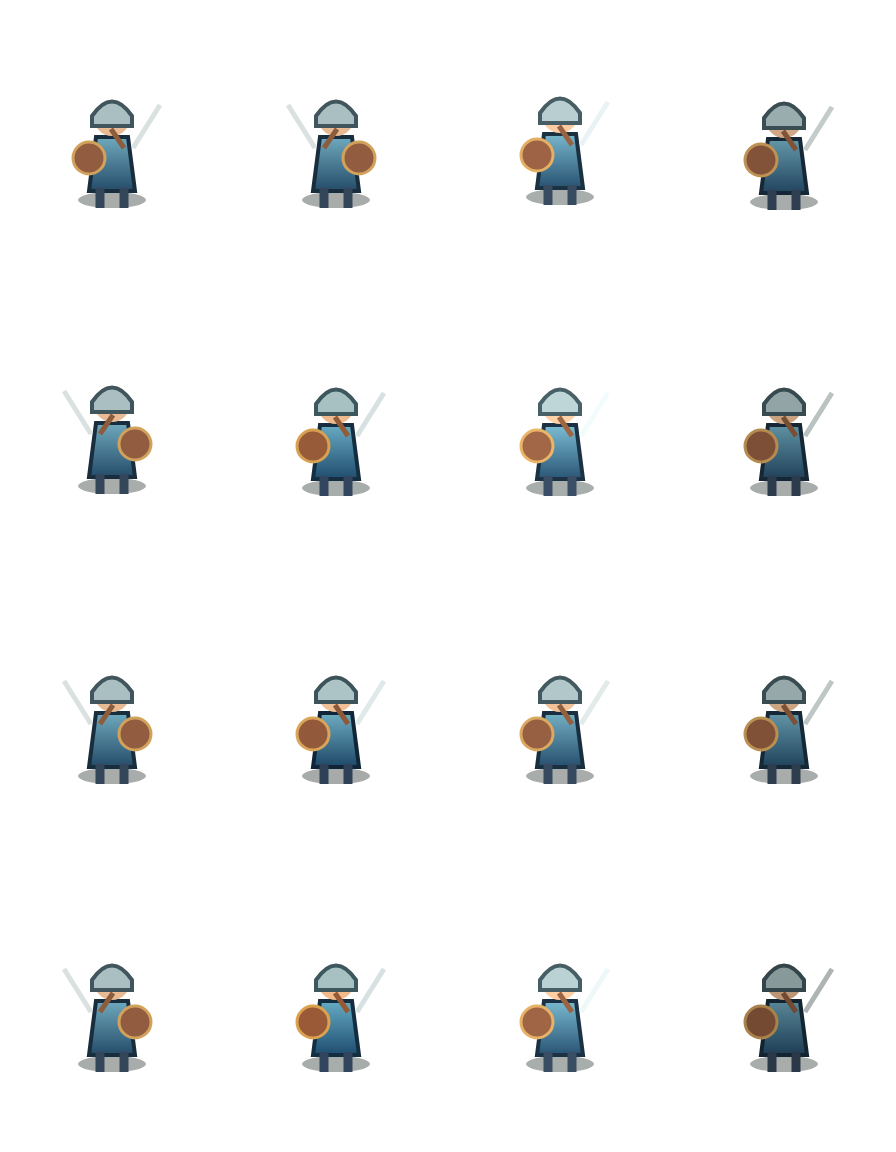
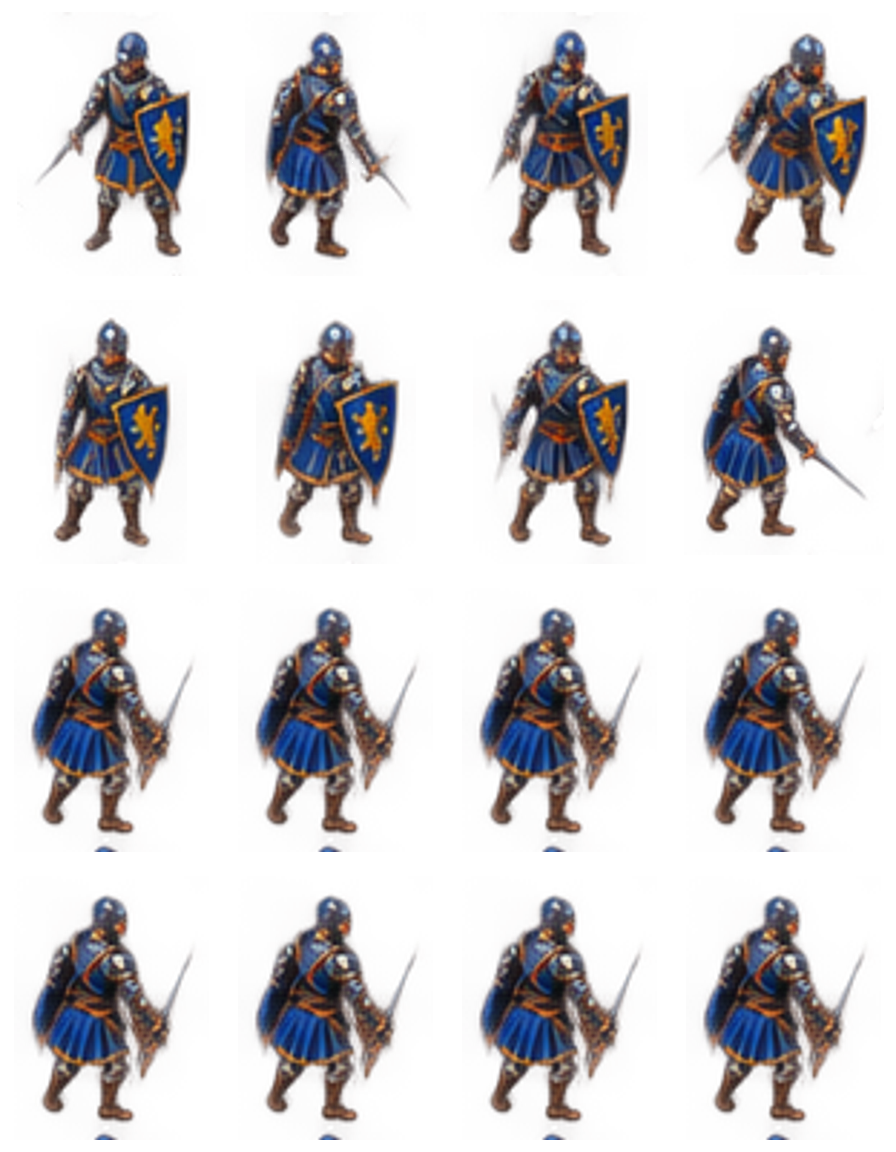
feat: integrate final medieval RTS art pack

diff --git a/src/assets.ts b/src/assets.ts
@@ -16,7 +16,9 @@ export const ART_ASSETS = {
   },
   resources: {
     wood: '/work/assets/rts-hd/resources/trees.png',
+    woodVariant: '/work/assets/rts-hd/resources/trees2.png',
     stone: '/work/assets/rts-hd/resources/stone.png',
+    stoneVariant: '/work/assets/rts-hd/resources/stone2.png',
     gold: '/work/assets/rts-hd/resources/gold.png',
   },
 } as const

diff --git a/ASSET_LICENSES.md b/ASSET_LICENSES.md
@@ -4,7 +4,7 @@ All new battlefield sprite artwork is original inline SVG artwork created for th
 
 ## Original sprite textures
 
-The primary runtime battlefield textures are raster PNG sprite sheets under `public/assets/rts-hd/`. They were generated locally from original project artwork into 4×4 frame atlases, with frame variants for direction/state presentation. The older SVG files under `public/assets/rts/` remain fallback/source artwork only.
+The primary runtime battlefield textures are raster PNG sprite sheets under `public/assets/rts-hd/`. The final unit/environment PNGs were selected from the project-owned game-ready art pack supplied in this session and normalized into 4×4 frame atlases with transparent edges. The older SVG files under `public/assets/rts/` remain fallback/source artwork only.
 
 | Asset family | Source | License | Modifications |
 |---|---|---|---|
